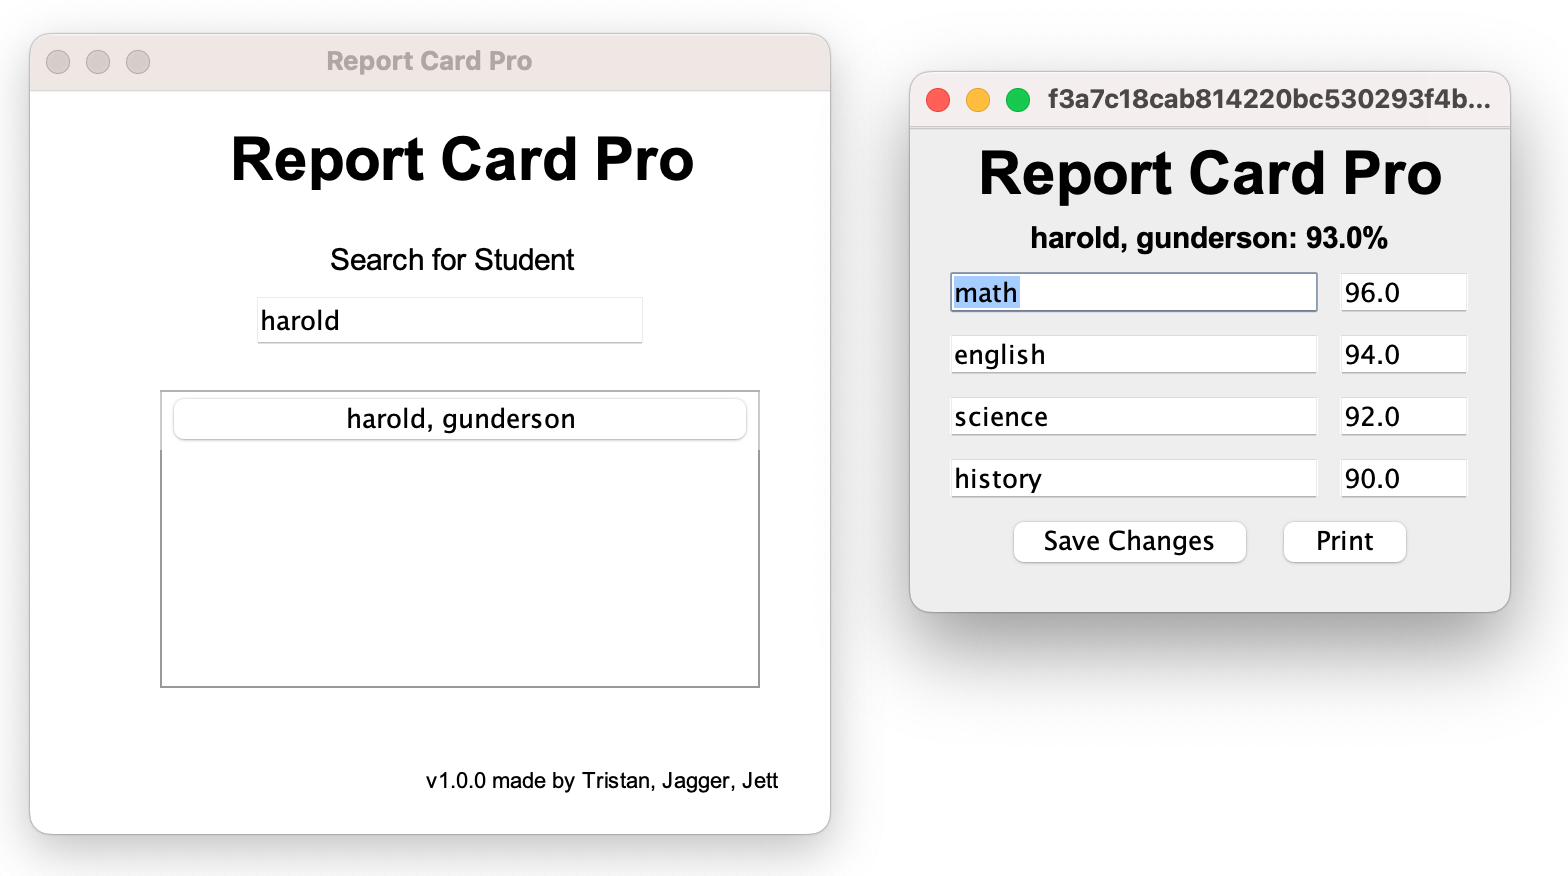
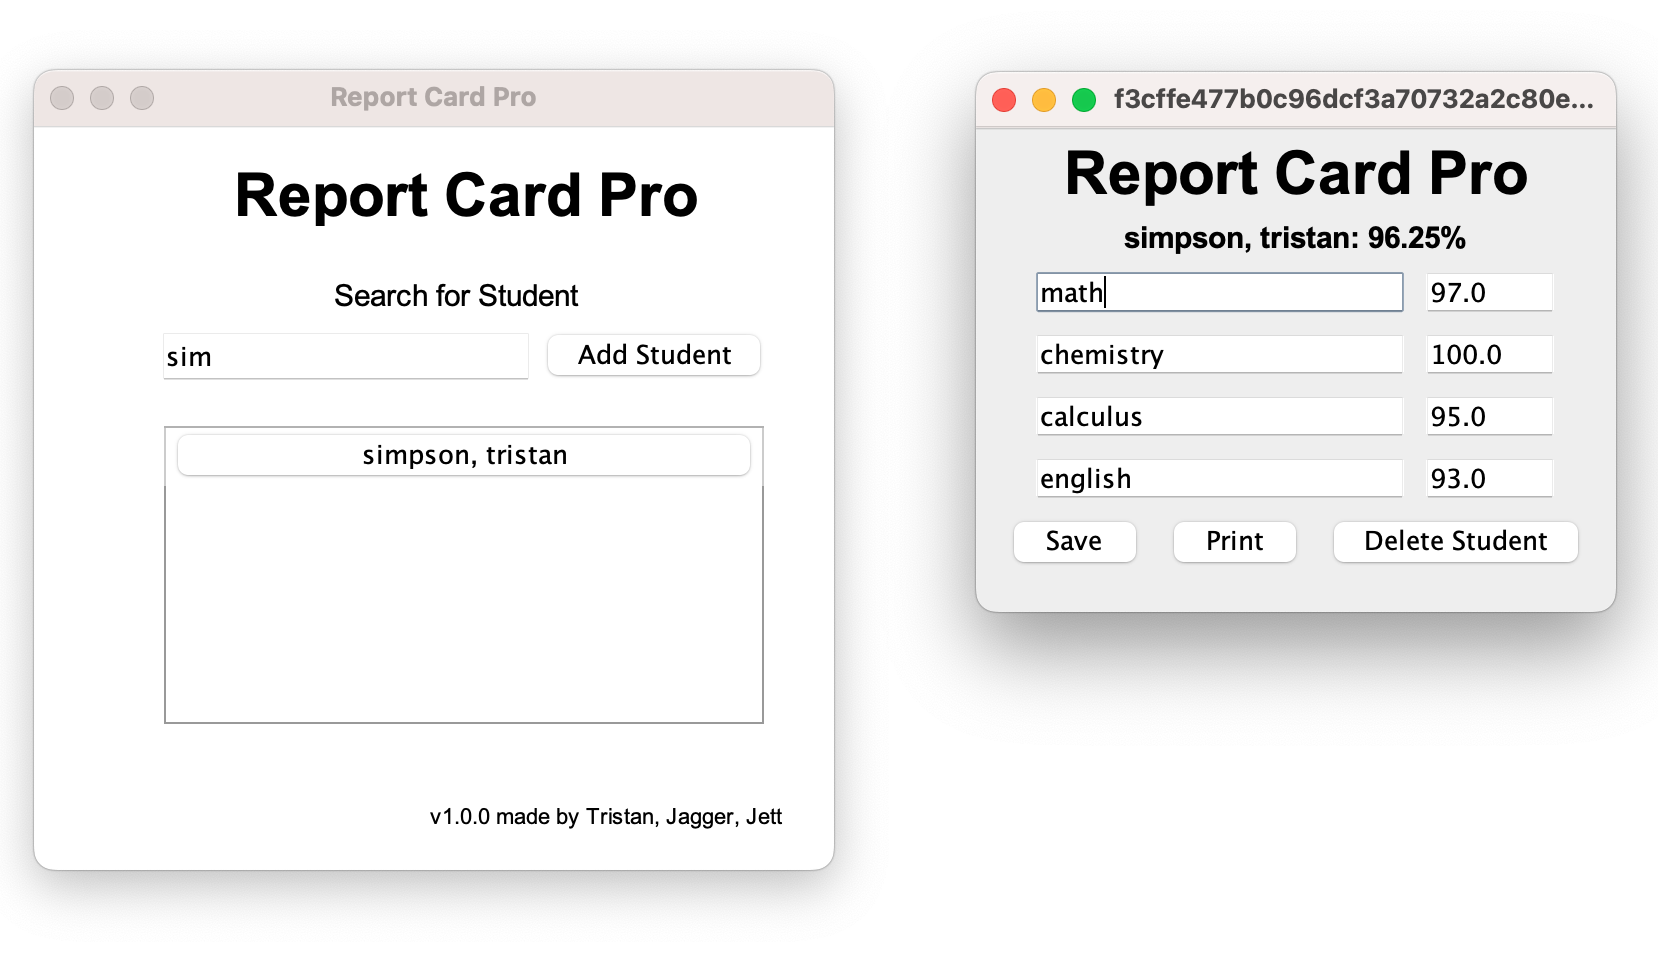
cleanup

diff --git a/website/src/app/app.component.html b/website/src/app/app.component.html
@@ -12,8 +12,7 @@
   <p class="font-normal text-xl px-24 md:px-56 text-center">
     <strong>Marking made easy.</strong> Manually inserting marks into a spreadsheet is a thing of the past. With Report
     Card
-    Pro you can <strong>automatically generate</strong> report cards with just a few clicks. <strong>Customize</strong>
-    your report cards with your own logo and school name. <strong>Save time</strong> and <strong>reduce stress.</strong>
+    Pro you can <strong>automatically generate</strong> report cards with just a few clicks. <strong>Add, Delete, and Update</strong> students and their grades. <strong>Save time</strong> and <strong>reduce stress.</strong>
   </p>
 </div>
 
@@ -29,15 +28,15 @@
 </div>
 <div class="flex justify-center items-center">
   <p class="font-normal text-xl px-24 md:px-56 text-center">
-    Report Card Pro is free and light-weight. It's user-interface and functions was designed in Javca. Get started with
+    Report Card Pro is <strong>free, light-weight,</strong> and <strong>multi-OS</strong>. It's user-interface and functions were designed in Java. Get started with
     Report Card Pro today! Download the latest version below.
   </p>
 </div>
 <div class="flex justify-center items-center mt-6">
-  <button
+  <a href="https://github.com/realTristan/ICS4UI_Final"
     class="bg-slate-900 text-white px-7 py-4 rounded-lg text-center text-extrabold hover:bg-slate-200 hover:shadow-sm hover:text-slate-900">
     Download
-  </button>
+</a>
 </div>
 
 <!-- Github -->

diff --git a/app/Pages/SearchPage/Components/AddStudentButton.java b/app/Pages/SearchPage/Components/AddStudentButton.java
@@ -25,9 +25,9 @@ public class AddStudentButton extends Button {
     // Add action listener to the button
     super.addActionListener(e -> {
       Object res = this.getNameDialog();
-      if (res == null) {
+      if (clickedCancel(res)) {
         return;
-      } 
+      }
       
       // Get the name of the student
       String name = (String) res;
@@ -73,5 +73,15 @@ public class AddStudentButton extends Button {
         "Enter the student's name (last; first):",
         "Add Student",
         JOptionPane.PLAIN_MESSAGE);
+  }
+
+  /**
+   * Checks if the cancel button was clicked.
+   *
+   * @param res the result of the dialog
+   * @return true if the cancel button was clicked, false otherwise
+   */
+  public boolean clickedCancel(Object res) {
+    return res == null;
   }
 }

diff --git a/app/Pages/StudentPage/Components/DeleteStudentButton.java b/app/Pages/StudentPage/Components/DeleteStudentButton.java
@@ -12,7 +12,7 @@ public class DeleteStudentButton extends Button {
     super("Delete Student", 0, 0);
     super.addActionListener(e -> {
       Object res = this.getIdDialog(id);
-      if (res == null) {
+      if (clickedCancel(res)) {
         return;
       }
 
@@ -58,5 +58,15 @@ public class DeleteStudentButton extends Button {
    */
   public boolean doIdsMatch(String id1, String id2) {
     return id1.equals(id2);
+  }
+
+  /**
+   * Checks if the cancel button was clicked.
+   *
+   * @param res the result of the dialog
+   * @return true if the cancel button was clicked, false otherwise
+   */
+  public boolean clickedCancel(Object res) {
+    return res == null;
   }
 }

diff --git a/app/Pages/Manager.java b/app/Pages/Manager.java
@@ -10,7 +10,6 @@ import Pages.StudentPage.StudentPage;
  */
 public class Manager {
   public SearchPage searchPage;
-  public StudentPage studentPaged;
   public Lib.StudentsCache cache;
   public JFrame frame;
 
